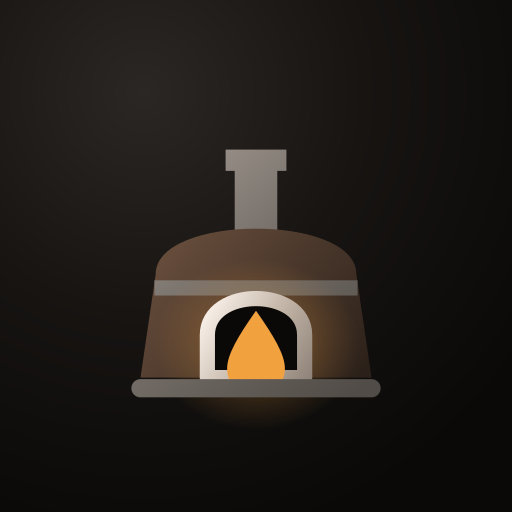
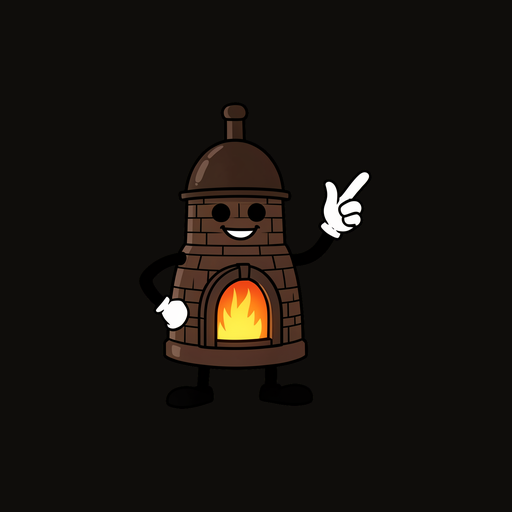
Let the mark be the character athanor drew, with the fire still live
The vector furnace was a diagram of the idea rather than a character, and the owner's word for it
was horrible. This is what they asked for twice: a 1930s rubber-hose cartoon of the alchemist's slow
furnace - bendy arms, four-finger gloves, pie-cut eyes, a fire in its belly - drawn by this product
on a flat chroma-green plate and keyed out, which is exactly the work somebody would come here to
have done.

Four takes were generated and the choice went to the one with a single chimney, a rounder dome and
the biggest fire door, because the door is the thing that has to survive being a favicon. The other
candidate had the warmer face; blushed cheeks are charming at 512 pixels and noise at thirty-two.

**The matte took two goes and the first was wrong in a way worth recording.** It keyed on distance
from pure green with a ramp between 180 and 260 - and pure black is 255 away from pure green, so
every black outline in a cartoon whose ink is mostly black landed inside the ramp at about a fifth
of full alpha. Twelve percent of the drawing was opaque; composited on white the outlines went pale
and the whole character was a ghost. The number that should have caught it was reported and read
backwards: "88% semi-transparent" was described as "88% of the edge is a clean hard cut".

A chroma key is green *dominance*, not distance: background where green leads both other channels,
which black, brown, white and orange all fail comfortably. Ninety-nine point six percent opaque now,
[…]

Changed region(s): [[0.25, 0.1875, 0.75, 0.8125], [0.1875, 0.0938, 0.375, 0.2812]]

diff --git a/apps/web/src/BrandMark.tsx b/apps/web/src/BrandMark.tsx
@@ -2,55 +2,41 @@ import { useEffect, useId, useRef } from 'react';
 import { registerFire } from './fire.js';
 
 /**
- * The mark, drawn rather than photographed.
+ * The mark: a drawing athanor made of itself, with the fire in it still live.
  *
- * It was a flask, and a flask is the wrong object. An athanor is not glassware: it is the
- * alchemist's slow furnace, the "Piger Henricus" - a squat brick-and-iron tower with a domed cap,
- * an arched fire door and a chimney, built to hold one low fire steady for weeks without going out.
- * That endurance is the whole idea of this product, and the vessel said none of it.
+ * It was a hand-drawn vector furnace, and before that a flask. The owner's word for the vector was
+ * horrible, and they were right - it was a diagram of the idea rather than a character. This is what
+ * they asked for instead: a 1930s rubber-hose cartoon of the alchemist's slow furnace, drawn by this
+ * product on a flat chroma-green plate and keyed out, which is exactly the work an owner would come
+ * here to have done.
  *
- * So the mark is the furnace: the brick mass, the iron that holds it together, and the door with
- * the fire in it. The fire is ember, and it is the only place ember appears while nothing is
- * happening - the pilot light of a machine still lit while the owner is elsewhere.
+ * Still an `<svg>`, and that is not laziness. Four places mount this and every one of them sizes it
+ * from the outside - `.brand-mark svg`, `.brand-mark.large svg`, `.agent-brand-avatar svg` - so the
+ * element has to keep being the thing those selectors name. The drawing rides inside it as an
+ * `<image>`, which means it is a file in `public/` fetched once and cached, and costs the eager
+ * bundle nothing where the vector was bytes in the entry chunk on every load.
  *
- * Drawn for the small sizes rather than the large one. It renders at 54px in the sidebar and 32px
- * as a favicon, so brick courses, a curl of smoke and the rubber-hose face this was sketched with
- * are all absent: each of them is mud below about 40px, and the face in particular read as alarm
- * rather than the calm it was meant to have. What survives all the way down to 20px is a squat
- * silhouette and one bright shape, which is the whole of what a mark owes you.
+ * What a baked drawing does cost is the flame's *height*, which cannot be driven. So the half of the
+ * signal that survives is the half that was already carrying most of it: `fire.ts` writes
+ * `--draught` on this element exactly as before, `.mark-glow` spends it on the light coming out of
+ * the door, and the stylesheet's `cold` and `calling` rules are untouched. The claim that matters is
+ * intact - a still glow during a running turn means the run is still, which no spinner can say,
+ * because a spinner spins identically through death.
  *
- * Two metals, because they are doing different jobs. `iron` is the structure - chimney, band,
- * plinth - and is deliberately dim: drawn bright it became a white brim across the dome and the
- * object stopped reading as masonry. `metal` is only the door frame, where the brightness is
- * earned, because it is what throws the fire forward.
- *
- * Both were blue-grey until the interface went warm, and a cool mark inside a bronze rim reads as
- * a mistake. They are warmed at the same lightness they had, so the specular jump that makes them
- * read as struck metal rather than more masonry is unchanged - that contrast between stops is what
- * carries the material, not the hue. Iron sits near the neutral axis, as blackened steel does;
- * the door frame is frankly warm, because it is the one surface in the drawing with a fire on it.
- *
- * The gradients are given document-unique ids because the mark renders twice on the sign-in screen,
- * and two `<defs>` sharing an id is one gradient serving both - which is invisible until the day
- * one of them is removed.
- *
- * Three classes and a ref are the whole of what turns the drawing into an instrument: `fire.ts`
- * writes `--draught` on this element and the stylesheet spends it on the flame's scale and the
- * glow's opacity. Nothing about the drawing changes, because CSS beats a presentation attribute -
- * the inline `fill` and `stroke` below are overridable by the state rules without being touched.
+ * The glow sits on the door by measurement rather than by eye: the fire's own pixels in
+ * `athanor-mark-512.png` centre at 45.8% across and 68.8% down and span 14% of the drawing, which is
+ * where the ellipse below comes from. Regenerate the drawing and that is the measurement to retake.
+ * It screens rather than covers, because light from a fire adds to what is behind it.
  */
 export function BrandMark({ className }: { className?: string }) {
   const svg = useRef<SVGSVGElement>(null);
-  // Every mark that mounts registers, and every one that goes unregisters: this component is on
-  // the sign-in screen twice and in the shell twice more, and a set of detached nodes is a leak
-  // that gets written to four times a second.
+  // Every mark that mounts registers, and every one that goes unregisters: this component is on the
+  // sign-in screen twice and in the shell twice more, and a set of detached nodes is a leak that
+  // gets written to four times a second.
   useEffect(() => registerFire(svg.current), []);
-  const id = useId();
-  const tile = `${id}-tile`;
-  const brick = `${id}-brick`;
-  const iron = `${id}-iron`;
-  const metal = `${id}-metal`;
-  const glow = `${id}-glow`;
+  // Document-unique, because the mark renders twice on the sign-in screen and two `<defs>` sharing
+  // an id is one gradient serving both - invisible until the day one of them is removed.
+  const glow = `${useId()}-glow`;
   return (
     <svg
       ref={svg}
@@ -61,76 +47,21 @@ export function BrandMark({ className }: { className?: string }) {
       focusable="false"
     >
       <defs>
-        <radialGradient id={tile} cx=".28" cy=".18" r=".9">
-          <stop stopColor="#2b2724" />
-          <stop offset=".48" stopColor="#171412" />
-          <stop offset="1" stopColor="#0a0908" />
-        </radialGradient>
-        <linearGradient id={brick} x1="34" y1="52" x2="96" y2="106" gradientUnits="userSpaceOnUse">
-          <stop stopColor="#6b503e" />
-          <stop offset=".55" stopColor="#48362a" />
-          <stop offset="1" stopColor="#2c211a" />
-        </linearGradient>
-        <linearGradient id={iron} x1="30" y1="28" x2="98" y2="108" gradientUnits="userSpaceOnUse">
-          <stop stopColor="#a39a92" />
-          <stop offset=".45" stopColor="#77706a" />
-          <stop offset="1" stopColor="#514c47" />
-        </linearGradient>
-        <linearGradient id={metal} x1="44" y1="84" x2="84" y2="108" gradientUnits="userSpaceOnUse">
-          <stop stopColor="#fdf5ee" />
-          <stop offset=".5" stopColor="#c2b4a6" />
-          <stop offset="1" stopColor="#867b72" />
-        </linearGradient>
-        {/* The heat the door lets out. It is what makes the mark look lit rather than drawn. */}
         <radialGradient id={glow} cx=".5" cy=".5" r=".5">
-          <stop stopColor="var(--ember)" stopOpacity=".55" />
-          <stop offset=".6" stopColor="var(--ember)" stopOpacity=".16" />
+          <stop stopColor="var(--ember)" stopOpacity=".85" />
+          <stop offset=".45" stopColor="var(--ember)" stopOpacity=".3" />
           <stop offset="1" stopColor="var(--ember)" stopOpacity="0" />
         </radialGradient>
       </defs>
-
-      <rect
-        x="1"
-        y="1"
-        width="126"
-        height="126"
-        rx="29"
-        fill={`url(#${tile})`}
-        stroke="#fff"
-        strokeOpacity=".12"
-        strokeWidth="2"
-      />
-
-      {/* Chimney first, so the dome overlaps its foot and it reads as seated in the cap. */}
-      <path d="M54 29h20v7H54z" fill={`url(#${iron})`} />
-      <path d="M57 34h14v24H57z" fill={`url(#${iron})`} />
-
-      <path d="M26 104 L31 70 C31 50 97 50 97 70 L102 104 Z" fill={`url(#${brick})`} />
-      {/* Butt caps, not round: a rounded band overhangs the brick and becomes a brim. */}
-      <path d="M30.6 74.5h66.8" fill="none" stroke={`url(#${iron})`} strokeWidth="5" />
-
-      <ellipse className="mark-glow" cx="64" cy="93" rx="34" ry="28" fill={`url(#${glow})`} />
-
-      <path
-        className="mark-door"
-        d="M48 104V90c0-16 32-16 32 0v14Z"
-        fill="#0b0908"
-        stroke={`url(#${metal})`}
-        strokeWidth="5"
-        strokeLinejoin="round"
-      />
-      <path
-        className="mark-flame"
-        d="M64 82c6 8.5 9.5 14.5 9.5 19 0 5.4-4.2 9-9.5 9s-9.5-3.6-9.5-9c0-4.5 3.5-10.5 9.5-19Z"
-        fill="var(--ember)"
-      />
-
-      <path
-        d="M26 107.5h76"
-        fill="none"
-        stroke={`url(#${iron})`}
-        strokeWidth="6"
-        strokeLinecap="round"
+      <image className="mark-drawing" href="/brand/athanor-mark-512.png" width="128" height="128" />
+      <ellipse
+        className="mark-glow"
+        cx="58.6"
+        cy="88.1"
+        rx="27"
+        ry="23"
+        fill={`url(#${glow})`}
+        style={{ mixBlendMode: 'screen' }}
       />
     </svg>
   );

diff --git a/apps/web/src/styles.css b/apps/web/src/styles.css
@@ -241,27 +241,20 @@ select:focus-visible {
   900ms, five times slower than this interface's 180ms, because a fire is a mass and not a light
   switch; the model retargets every 250ms, so the eye is given lag rather than steps.
 */
-.mark-flame {
-  transform-box: view-box;
-  transform-origin: 64px 110px;
-  transform: scale(calc(0.88 + var(--draught) * 0.16), calc(0.55 + var(--draught) * 0.62));
-  transition: transform 900ms var(--ease);
-}
-
 .mark-glow {
   opacity: calc(0.18 + var(--draught) * 0.72);
   transition: opacity 900ms var(--ease);
 }
 
 /*
-  Out. #7c736c is the grey this product already uses for a thing that is not alive
-  (.status-dot.queued, :4285); it measures 4.53:1 on black. The flame also drops to a third of its
-  height, so the state is carried by shape as well as by colour - and the sidebar prints the word
-  beside it, so it is carried by neither alone.
+  Out. The drawing loses its colour rather than changing shape, because the shape is a baked
+  image now and cannot be redrawn - and the light in the door goes out entirely, which is the part
+  a reader actually looks at. Greyscale plus a drop in brightness reads as a cold furnace rather
+  than a dimmed one, and the sidebar prints the word beside it, so the state is never colour alone.
 */
-[data-fire='cold'] .mark-flame {
-  fill: #7c736c;
-  transform: scale(0.82, 0.34);
+[data-fire='cold'] .mark-drawing {
+  filter: grayscale(1) brightness(0.66);
+  transition: filter 900ms var(--ease);
 }
 
 [data-fire='cold'] .mark-glow {
@@ -270,14 +263,10 @@ select:focus-visible {
 
 /*
   Your move. `calling` and `drawing` differ by a pulse, and a pulse does not exist for a reader who
-  asked for less motion - so the difference is carried statically by the door rim leaving its metal
-  for ember, and the pulse is the enhancement on top. 2.2s because that is already this product's
+  asked for less motion - so what carries it statically is the floor the glow sits at, which is
+  higher for `calling` than for a turn merely in flight. 2.2s because that is already this product's
   one request cadence (running-mark-pulse); no second cadence is invented.
 */
-[data-fire='calling'] .mark-door {
-  stroke: var(--ember);
-}
-
 [data-fire='calling'] .mark-glow {
   animation: mark-called 2.2s var(--ease) infinite;
 }
